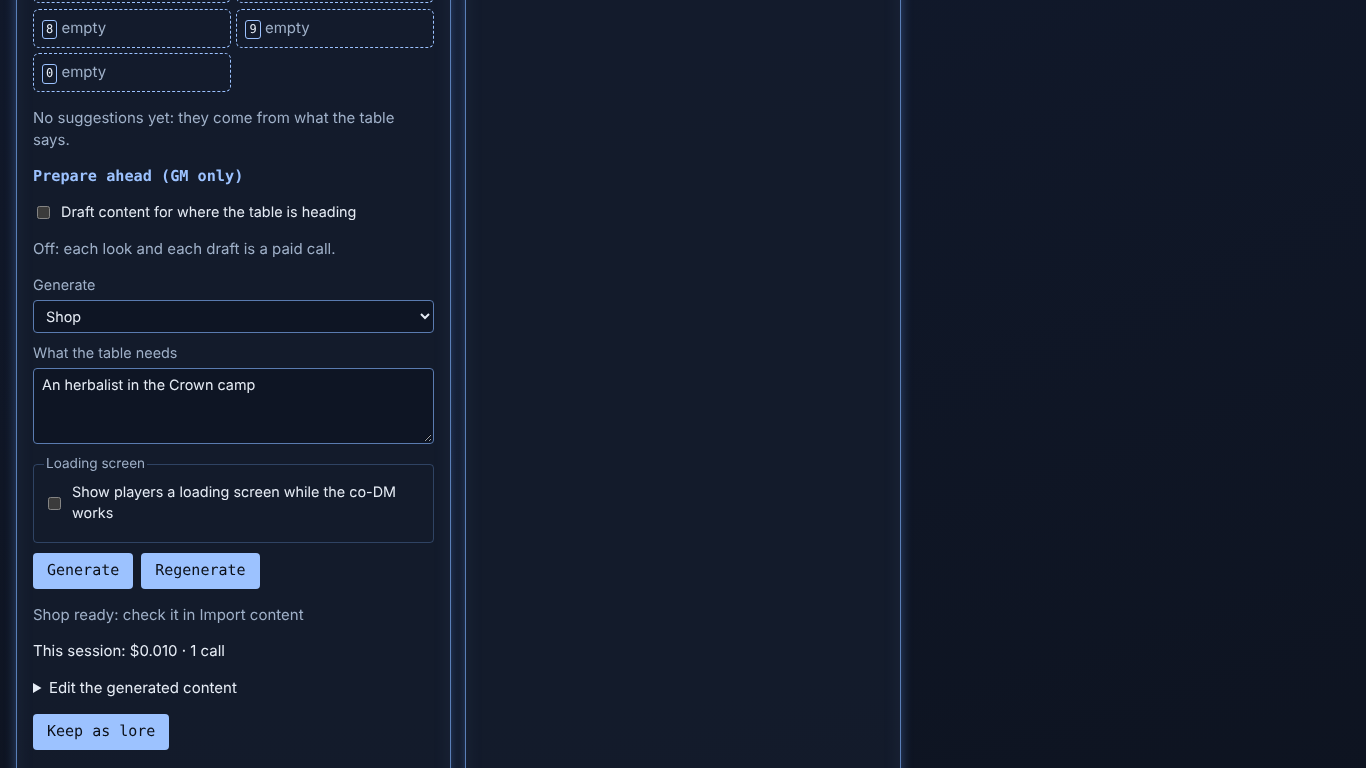
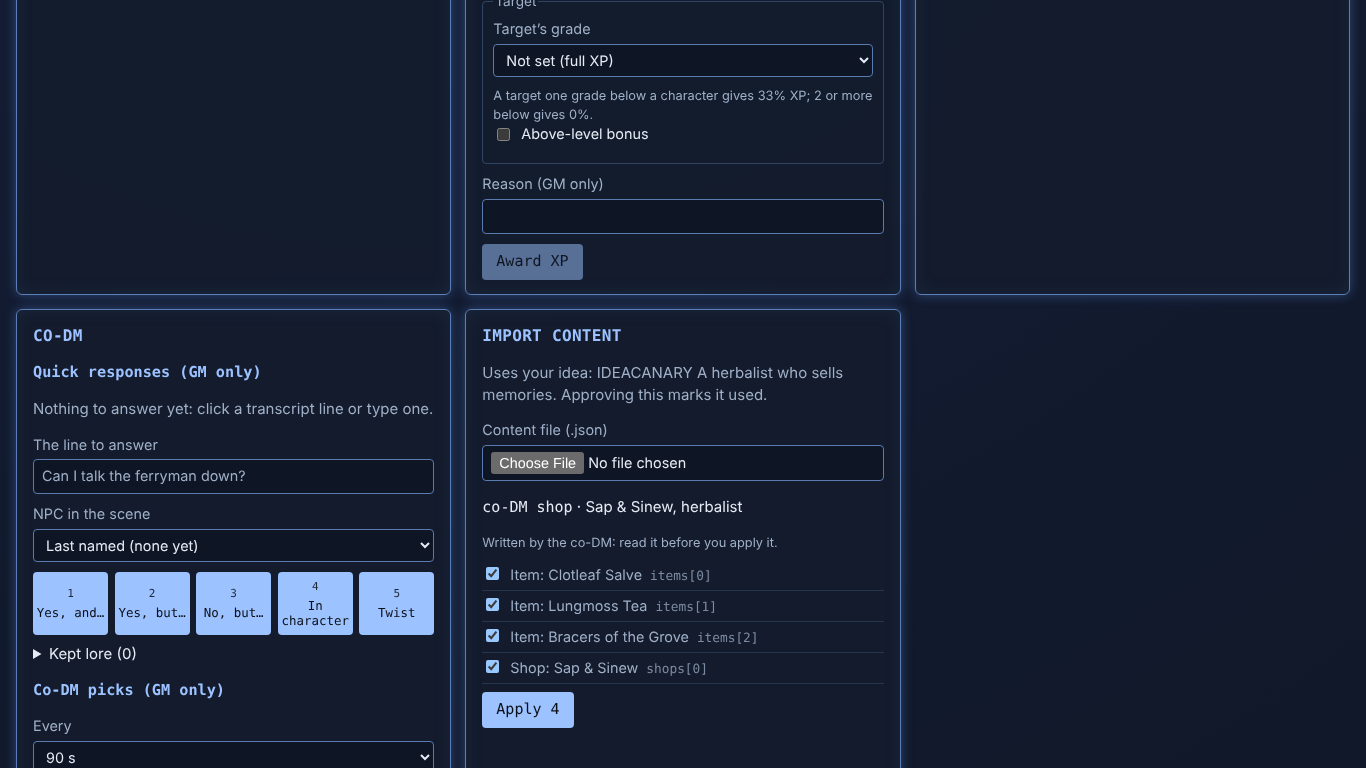
fix(MW.3): whole-word idea matching, only what a result names counts, quick answers mark and undo, screenshots show the feature
Claude-Session: https://claude.ai/code/session_015YxiCeGcD9feUi6igqrYdD

diff --git a/e2e/MW.3.spec.ts b/e2e/MW.3.spec.ts
@@ -95,6 +95,7 @@ test('import a sample file; the co-DM uses an idea; approving marks it used', as
   // The sample previews, then imports.
   await fileInput.setInputFiles(asFile('ideas.json', sample));
   await expect(board.getByTestId('ideas-preview')).toContainText('2 new');
+  await board.getByRole('button', { name: 'Import 2' }).scrollIntoViewIfNeeded();
   await gm.screenshot({ path: path.join(shots, 'import-preview-1366x768.png') });
   await board.getByRole('button', { name: 'Import 2' }).click();
   await expect(board.getByRole('status')).toHaveText('Imported 2 ideas');
@@ -131,7 +132,7 @@ test('import a sample file; the co-DM uses an idea; approving marks it used', as
   await board.getByLabel('Search ideas').fill('sky');
   await expect(board.getByTestId('idea-row')).toHaveCount(1);
   await board.getByLabel('Search ideas').fill('');
-  await board.getByTestId('idea-row').last().scrollIntoViewIfNeeded();
+  await board.getByLabel('Search ideas').evaluate((el) => el.scrollIntoView({ block: 'start' }));
   await gm.screenshot({ path: path.join(shots, 'ideas-board-1366x768.png') });
 
   // A generation offered the herbalist idea names it; approving marks it used.
@@ -142,6 +143,7 @@ test('import a sample file; the co-DM uses an idea; approving marks it used', as
   await codm.getByLabel('What the table needs').fill('An herbalist in the Crown camp');
   await codm.getByRole('button', { name: 'Generate', exact: true }).click();
   await expect(imp.getByTestId('import-idea')).toContainText('Uses your idea:');
+  await imp.getByTestId('import-idea').evaluate((el) => el.scrollIntoView({ block: 'center' }));
   await gm.screenshot({ path: path.join(shots, 'generation-names-idea-1366x768.png') });
   await imp.getByRole('button', { name: /^Apply/ }).click();
   const used = imp.getByTestId('import-idea-used');
@@ -170,6 +172,11 @@ test('import a sample file; the co-DM uses an idea; approving marks it used', as
   const answer = quick.getByTestId('quick-answer');
   await expect(answer.getByTestId('quick-idea')).toContainText('Uses your idea:');
   await expect(answer.getByTestId('quick-say')).not.toContainText('IDEA:');
+  // Spoken without keeping: the GM marks it by hand, and can take it back.
+  await answer.getByRole('button', { name: 'Mark idea used' }).click();
+  await expect(answer.getByTestId('quick-idea')).toContainText('(marked used)');
+  await answer.getByRole('button', { name: 'Undo' }).click();
+  await expect(answer.getByRole('button', { name: 'Mark idea used' })).toBeVisible();
   await answer.getByRole('button', { name: 'Keep' }).click();
   await answer.getByRole('button', { name: 'Save lore' }).click();
   await expect(answer.getByRole('status')).toHaveText('Kept as lore (GM only)');

diff --git a/apps/server/src/ai/ideas.ts b/apps/server/src/ai/ideas.ts
@@ -1,6 +1,6 @@
 // MW.3 (DESIGN §11 "Story ideas"): which of the GM's ideas a co-DM prompt
 // carries, and how a result names the one it used. GM-only, like every prompt.
-import { chooseIdeas, type CampaignState, type Idea } from '@the-system/engine';
+import { chooseIdeas, IDEAS_IN_PROMPT, type CampaignState, type Idea } from '@the-system/engine';
 import { sceneNpcs } from './sceneNpcs';
 
 /** What the panel gets back about the idea a result used. */
@@ -12,23 +12,40 @@ export interface UsedIdea {
 export const usedIdea = (idea: Idea | null): UsedIdea | null =>
   idea ? { id: idea.id, text: idea.text } : null;
 
+/** Everyday words that say nothing about what is in play. */
+const COMMON_WORDS = new Set(
+  (
+    'about after again also back been before being came come could does down each even from ' +
+    'give goes going good have here into just know like look make many more most much must ' +
+    'need only other over said same should some something still such take tell than that ' +
+    'their them then there these they thing think this those through under very want well ' +
+    'were what when where which while will with would your yeah okay'
+  ).split(' '),
+);
+
 /** The place, the NPCs in the scene and the words in play, for matching. */
 export function ideasInPlay(
   state: CampaignState,
-  context: { readonly kind?: string; readonly words?: string },
+  context: { readonly kind?: string; readonly words?: string; readonly first?: string },
 ): readonly Idea[] {
   const place = state.currentRegion ? (state.regions[state.currentRegion]?.name ?? '') : '';
   const words = [
     place,
     ...sceneNpcs(state).map((n) => n.name),
     // Words of four letters or more, so "the" never counts as a connection.
-    ...(context.words ?? '').split(/[^\p{L}\p{N}'’-]+/u).filter((w) => w.length >= 4),
+    ...(context.words ?? '')
+      .split(/[^\p{L}\p{N}'’-]+/u)
+      .filter((w) => w.length >= 4 && !COMMON_WORDS.has(w.toLowerCase())),
   ];
   const ideas = state.ideaOrder
     .map((id) => state.ideas[id])
     .filter((idea): idea is Idea => idea !== undefined);
-  return chooseIdeas(ideas, {
+  const chosen = chooseIdeas(ideas, {
     ...(context.kind === undefined ? {} : { kind: context.kind }),
     words,
   });
+  // The idea a chip was built on stays on offer when its generation is asked for.
+  const first = context.first === undefined ? undefined : state.ideas[context.first];
+  if (!first || first.used || chosen.includes(first)) return chosen;
+  return [first, ...chosen].slice(0, Math.max(chosen.length, IDEAS_IN_PROMPT));
 }

diff --git a/packages/engine/src/ideas/choose.ts b/packages/engine/src/ideas/choose.ts
@@ -20,6 +20,13 @@ export interface IdeaContext {
   readonly words: readonly string[];
 }
 
+/** Lower case, with anything but letters and digits as single spaces. */
+const plainWords = (text: string): string =>
+  text
+    .toLowerCase()
+    .replace(/[^\p{L}\p{N}]+/gu, ' ')
+    .trim();
+
 /**
  * The most relevant unused ideas: a matching kind, tags or text naming the
  * place or NPCs in play, then pinned ones. An idea with no connection at all
@@ -30,15 +37,16 @@ export function chooseIdeas<T extends ChoosableIdea>(
   context: IdeaContext,
   max: number = IDEAS_IN_PROMPT,
 ): readonly T[] {
-  const words = context.words.map((w) => w.trim().toLowerCase()).filter((w) => w !== '');
+  const words = [...new Set(context.words.map(plainWords).filter((w) => w !== ''))];
   const score = (idea: T): number => {
-    const text = idea.text.toLowerCase();
-    const tags = idea.tags.map((t) => t.toLowerCase());
+    // Whole words only: "inn" does not connect to "beginning".
+    const text = ` ${plainWords(idea.text)} `;
+    const tags = idea.tags.map(plainWords);
     let points = 0;
     if (context.kind !== undefined && idea.kind === context.kind) points += 2;
     for (const word of words) {
       if (tags.includes(word)) points += 3;
-      else if (text.includes(word)) points += 2;
+      else if (text.includes(` ${word} `)) points += 2;
     }
     return points + (idea.pinned ? 1 : 0);
   };
@@ -72,20 +80,22 @@ export function ideaPromptLines(chosen: readonly ChoosableIdea[], answer: string
 export const IDEA_LINE_INSTRUCTION =
   'If you used one, end your reply with a last line of just "IDEA: <its number>".';
 
-const IDEA_LINE = /^[ \t]*\**IDEA:\**[ \t]*#?(\d+)[ \t]*$/imu;
+const IDEA_LINE = /^[ \t]*[*(]*idea(?: used)?\**:\**[ \t]*#?(\d+|none)[.)*]*[ \t]*$/gimu;
 
 /**
  * Takes the "IDEA: n" line out of a reply and finds the idea it names among
- * those offered. A number nobody was offered names nothing.
+ * those offered (the last such line decides). A number nobody was offered, or
+ * "none", names nothing.
  */
 export function readUsedIdea<T>(
   reply: string,
   offered: readonly T[],
 ): { readonly text: string; readonly idea: T | null } {
-  const match = IDEA_LINE.exec(reply);
-  if (!match) return { text: reply, idea: null };
+  const matches = [...reply.matchAll(IDEA_LINE)];
+  const last = matches.at(-1);
+  if (!last) return { text: reply, idea: null };
   return {
     text: reply.replace(IDEA_LINE, '').trimEnd(),
-    idea: offered[Number(match[1]) - 1] ?? null,
+    idea: offered[Number(last[1]) - 1] ?? null,
   };
 }

diff --git a/apps/web/src/gm/QuickResponses.tsx b/apps/web/src/gm/QuickResponses.tsx
@@ -56,17 +56,23 @@ export function QuickResponses({
   picked,
   onSpend,
   onKeep,
-  onIdeaApproved,
+  onIdeaMark,
 }: {
   gmKey: string;
   picked: PickedLine | null;
   onSpend: (spend: { calls: number; dollars: number }) => void;
   /** MD.3: save a kept answer; resolves to an error message, or null when saved. */
   onKeep?: (lore: KeptLore) => Promise<string | null>;
-  /** MW.3: a kept answer used this idea. */
-  onIdeaApproved?: (idea: UsedIdea) => void;
+  /** MW.3: mark the idea an answer used, or take that back; an error message, or null. */
+  onIdeaMark?: (idea: UsedIdea, used: boolean) => Promise<string | null>;
 }) {
   const [keepDraft, setKeepDraft] = useState<string | null>(null);
+  const [ideaMarked, setIdeaMarked] = useState(false);
+  const markIdea = async (idea: UsedIdea, used: boolean) => {
+    const error = await onIdeaMark?.(idea, used);
+    if (error) setKeepNote(error);
+    else setIdeaMarked(used);
+  };
   const [keepNote, setKeepNote] = useState<string | null>(null);
   const [scene, setScene] = useState<QuickScene | null>(null);
   const [listening, setListening] = useState(false);
@@ -120,6 +126,7 @@ export function QuickResponses({
       setNote(null);
       setKeepDraft(null);
       setKeepNote(null);
+      setIdeaMarked(false);
       setLast({ slot, target: line });
       try {
         const res = await fetch('/api/gm/ai/quick', {
@@ -292,6 +299,12 @@ export function QuickResponses({
           {!answer.streaming && answer.idea && (
             <p className="muted" data-testid="quick-idea">
               Uses your idea: {ideaLabel(answer.idea)}
+              {ideaMarked ? ' (marked used)' : ''}{' '}
+              {onIdeaMark && (
+                <button type="button" onClick={() => void markIdea(answer.idea!, !ideaMarked)}>
+                  {ideaMarked ? 'Undo' : 'Mark idea used'}
+                </button>
+              )}
             </p>
           )}
           {!answer.streaming && last && (
@@ -337,7 +350,7 @@ export function QuickResponses({
                     setKeepDraft(null);
                     setKeepNote('Kept as lore (GM only)');
                     // MW.3: approving an answer marks the idea it used.
-                    if (answer.idea) onIdeaApproved?.(answer.idea);
+                    if (answer.idea && !ideaMarked) void markIdea(answer.idea, true);
                   }
                 });
               }}

diff --git a/apps/web/src/gm/CoDmPanel.tsx b/apps/web/src/gm/CoDmPanel.tsx
@@ -127,7 +127,7 @@ export function CoDmPanel({
       const res = await fetch('/api/gm/ai/generate', {
         method: 'POST',
         headers: { 'x-gm-key': gmKey, 'content-type': 'application/json' },
-        body: JSON.stringify({ kind, prompt }),
+        body: JSON.stringify({ kind, prompt, ...(chipIdea ? { idea: chipIdea.id } : {}) }),
         signal: controller.signal,
       });
       const data = (await res.json().catch(() => ({}))) as {
@@ -151,7 +151,8 @@ export function CoDmPanel({
       setDraft(text);
       setOriginal(text);
       setDraftKind(kind);
-      const idea = data.idea ?? chipIdea;
+      // MW.3 review: only what the result itself says it used.
+      const idea = data.idea ?? null;
       setDraftIdea(idea);
       onGenerated({ text, name: `co-DM ${label.toLowerCase()}`, generated: true, kind, idea });
       setMessage(readiness(label, data.preview));
@@ -180,8 +181,9 @@ export function CoDmPanel({
         }}
         {...(client
           ? {
-              onIdeaApproved: (idea: UsedIdea) => {
-                void client.command({ type: 'idea.edit', ideaId: idea.id, used: true });
+              onIdeaMark: async (idea: UsedIdea, used: boolean) => {
+                const r = await client.command({ type: 'idea.edit', ideaId: idea.id, used });
+                return r.ok ? null : r.error;
               },
               onKeep: async (lore: KeptLore) => {
                 const r = await client.command({

diff --git a/packages/engine/test/ideas-events.test.ts b/packages/engine/test/ideas-events.test.ts
@@ -1,5 +1,6 @@
 import { describe, expect, it } from 'vitest';
 import {
+  chooseIdeas,
   DEFAULT_RULES,
   execute,
   emptyCampaign,
@@ -167,5 +168,15 @@ describe('ideas in a prompt (MW.3)', () => {
     expect(readUsedIdea('{"a":1}\nidea: #1', offered).idea?.id).toBe('a');
     expect(readUsedIdea('text\nIDEA: 9', offered)).toEqual({ text: 'text', idea: null });
     expect(readUsedIdea('An IDEA: 1 in a sentence', offered).idea).toBeNull();
+    expect(readUsedIdea('text\n**IDEA: 2.**', offered).idea?.id).toBe('b');
+    expect(readUsedIdea('text\nIDEA: none', offered)).toEqual({ text: 'text', idea: null });
+    expect(readUsedIdea('IDEA: 1\ntext\nIDEA: 2', offered).idea?.id).toBe('b');
+  });
+
+  it('connects whole words only', () => {
+    const inn = { ...idea('a', 'A new beginning'), tags: [] };
+    expect(chooseIdeas([inn], { words: ['Inn'] })).toEqual([]);
+    const named = idea('b', 'The Old Inn burns');
+    expect(chooseIdeas([named], { words: ['old inn'] }).map((i) => i.id)).toEqual(['b']);
   });
 });

diff --git a/apps/server/src/server.ts b/apps/server/src/server.ts
@@ -921,6 +921,8 @@ export async function createServer(options: CreateServerOptions): Promise<Fastif
     const generateBody = z.strictObject({
       kind: z.enum(GENERATE_KINDS),
       prompt: z.string().max(GENERATE_PROMPT_MAX).default(''),
+      // MW.3: the idea the chip behind this request was built on.
+      idea: z.string().max(100).optional(),
     });
     const limitMs = options.generateTimeoutMs ?? GENERATE_TIMEOUT_MS;
     app.post('/api/gm/ai/generate', { bodyLimit: 16 * 1024 }, async (request, reply) => {
@@ -948,7 +950,7 @@ export async function createServer(options: CreateServerOptions): Promise<Fastif
       });
       let file: unknown;
       // MW.3: the GM's ideas this generation may use, and the one it says it did.
-      const offered = generateIdeas(body.data.kind, body.data.prompt, state);
+      const offered = generateIdeas(body.data.kind, body.data.prompt, state, body.data.idea);
       let idea: UsedIdea | null;
       try {
         const answer = await Promise.race([

diff --git a/apps/server/test/ideas.test.ts b/apps/server/test/ideas.test.ts
@@ -79,6 +79,15 @@ describe('ideas in co-DM prompts (MW.3)', () => {
     expect(ideasInPlay(state, { words: 'anything at all' })).toEqual([]);
   });
 
+  it('everyday words connect nothing; a chip keeps its own idea on offer', () => {
+    const state = build([{ id: 'a', text: 'Something about that thing with them', kind: 'twist' }]);
+    expect(ideasInPlay(state, { words: 'about that thing with them' })).toEqual([]);
+    expect(ideasInPlay(state, { words: 'nothing here', first: 'a' }).map((i) => i.id)).toEqual([
+      'a',
+    ]);
+    expect(ideasInPlay(state, { words: 'nothing here', first: 'gone' })).toEqual([]);
+  });
+
   it('a pinned idea comes along with no connection; a stray one does not', () => {
     const state = build([
       { id: 'p', text: 'Pinned thought', kind: 'twist' },

diff --git a/apps/web/src/gm/quickModel.ts b/apps/web/src/gm/quickModel.ts
@@ -129,7 +129,7 @@ export function streamingPreview(text: string): { say: string; beats: string[] }
   const beats: string[] = [];
   for (const l of lines) {
     // MW.3: the line that names the idea used is not part of the answer.
-    if (l === '' || /^\**idea:/iu.test(l)) continue;
+    if (l === '' || /^[*(]*(?:i|id|ide|idea|idea(?: used)?\**:.*)$/iu.test(l)) continue;
     const m = /^say:\s*(.*)$/iu.exec(l);
     if (m && say === '') say = m[1] ?? '';
     else if (/^[-•*]\s*/u.test(l)) beats.push(l.replace(/^[-•*]\s*/u, ''));

diff --git a/apps/server/src/ai/generate.ts b/apps/server/src/ai/generate.ts
@@ -98,7 +98,13 @@ export const generateIdeas = (
   kind: GenerateKind,
   prompt: string,
   state: CampaignState,
-): readonly Idea[] => ideasInPlay(state, { kind: IDEA_KIND_OF[kind], words: prompt });
+  first?: string,
+): readonly Idea[] =>
+  ideasInPlay(state, {
+    kind: IDEA_KIND_OF[kind],
+    words: prompt,
+    ...(first === undefined ? {} : { first }),
+  });
 
 export function buildGenerateRequest(
   kind: GenerateKind,

diff --git a/apps/web/src/gm/ContentImport.tsx b/apps/web/src/gm/ContentImport.tsx
@@ -173,6 +173,7 @@ export function ContentImport({
         setGenerated(isGenerated);
         setGenKind(kind);
         setGenIdea(isGenerated ? (incoming.idea ?? null) : null);
+        setMarkedIdea(null);
         setPreview(p);
         setChecks(new Map());
         setChecking(false);
